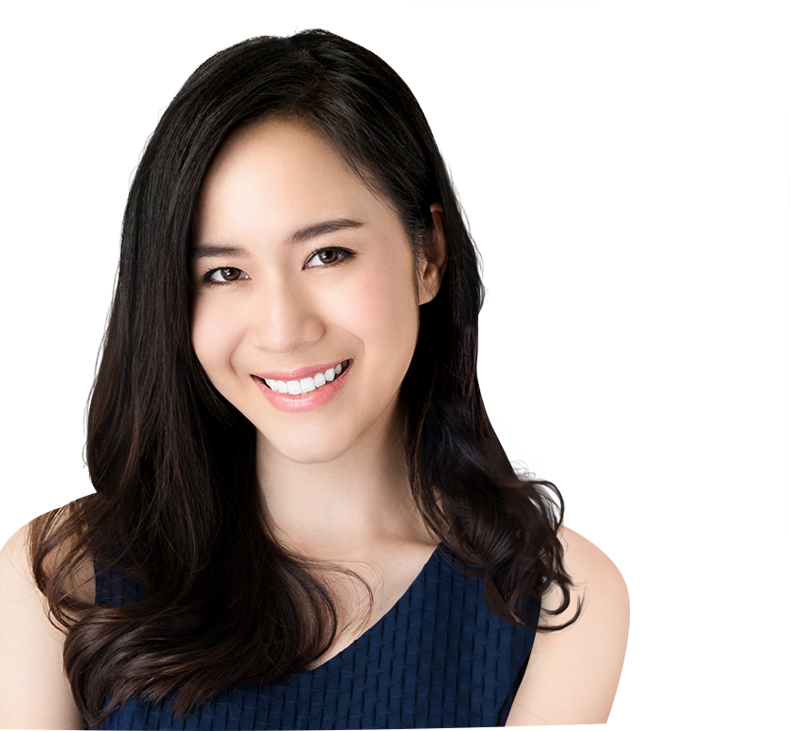
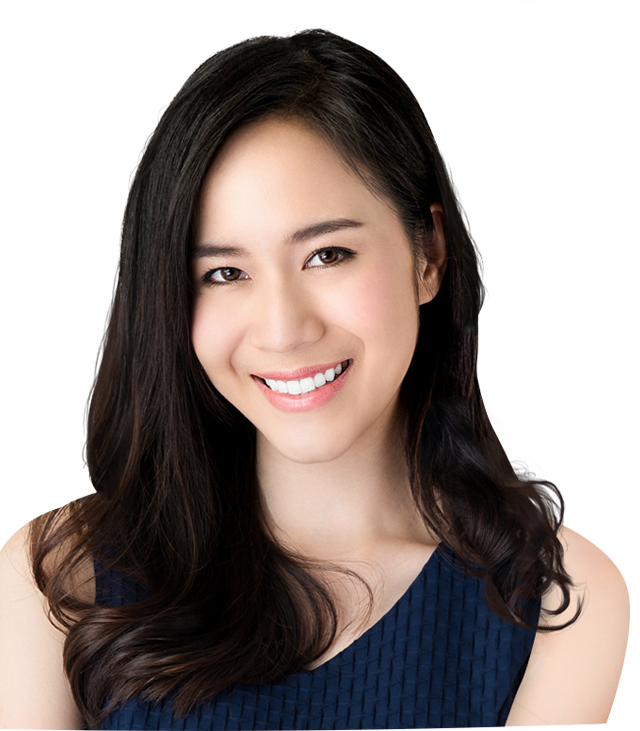
adaptive header block

diff --git a/src/style/partials/main/header.sass b/src/style/partials/main/header.sass
@@ -2,32 +2,120 @@
 	background-color: #e4f2f6
 	padding-top: 155px
 	padding-bottom: 118px
+	+r(1199)
+		padding-bottom: 77px
+		padding-top: 145px
+	+r(1023)
+		padding-top: 78px
+		padding-bottom: 40px
+	+r(767)
+		padding-bottom: 30px
+	+r(479)
+		padding-bottom: 25px
+		padding-top: 55px
 	&__wrap
 		display: flex
 		justify-content: space-between
 		position: relative
+		+r(1023)
+			flex-direction: column
+			justify-content: center
 		.girl
 			position: absolute
 			bottom: -121px
 			left: 381px
 			pointer-events: none
+			max-width: 100%
+			+r(1199)
+				width: 530px
+				left: 346px
+				bottom: -80px
+			+r(1023)
+				width: 459px
+				left: 36px
+				bottom: -40px
+			+r(767)
+				width: 448px
+				left: 20px
+				bottom: -40px
+			+r(639)
+				display: none
 	&__order
 		margin-top: -24px
+		+r(1199)
+			margin-top: 0
+		+r(1023)
+			margin-left: auto
+		+r(639)
+			margin: auto
 .info-list
 	position: relative
+	margin-right: auto
+	+r(1023)
+		margin-bottom: 100px
+	+r(639)
+		margin: auto
+		text-align: center
 	&__title
 		text-align: left
 		font-size: 77px
 		line-height: 0.78
 		color: #1e1e1e
 		margin-bottom: 24px
+		+r(1199)
+			font-size: 70px
+			line-height: 0.78
+			margin-bottom: 20px
+		+r(1023)
+			font-size: 65px
+			line-height: .85
+			margin-bottom: 15px
+			text-align: center
+			.hide
+				display: none
+		+r(767)
+			font-size: 56px
+			line-height: .85
+			margin-bottom: 10px
+		+r(639)
+			font-size: 50px
+		+r(479)
+			font-size: 36px
+			line-height: .8
 	&__desc
 		font-size: 28px
 		font-weight: 500
 		line-height: 1.21
 		color: #1e1e1e
 		margin-bottom: 48px
+		+r(1199)
+			font-size: 26px
+			margin-bottom: 40px
+		+r(1023)
+			font-size: 22px
+			line-height: 1.1
+			text-align: center
+			margin-bottom: 15px
+			br
+				display: none
+		+r(767)
+			font-size: 20px
+			margin-bottom: 10px
+		+r(639)
+			font-size: 18px
+			margin-bottom: 20px
 	&__plus
+		+r(1023)
+			display: flex
+			justify-content: space-between
+			align-items: flex-start
+		+r(639)
+			flex-direction: column
+			width: 360px
+			margin: auto
+			margin-bottom: 20px
+		+r(479)
+			width: 280px
 		.item
 			font-size: 20px
 			font-style: italic
@@ -35,8 +123,21 @@
 			color: #444444
 			padding-left: 60px
 			position: relative
+			+r(1023)
+				padding-left: 52px
+				font-size: 18px
+			+r(767)
+				padding-left: 33px
+			+r(639)
+				text-align: left
 			+nlt
 				margin-bottom: 33px
+				+r(1023)
+					margin-bottom: 0
+					margin-right: 7px
+				+r(639)
+					margin-right: 0
+					margin-bottom: 15px
 			.fico
 				box-shadow: -0.1px 1px 2px 0 rgba(0, 0, 0, 0.2)
 				color: #ffffff
@@ -52,11 +153,34 @@
 				display: flex
 				align-items: center
 				justify-content: center
+				+r(767)
+					width: 27px
+					height: 27px
+					font-size: 16px
 			&__ttl
 				font-weight: 700
 				display: block
 				color: #1464a5
+				+r(767)
+					display: inline
+				+r(479)
+					display: block
 	.product
 		position: absolute
 		bottom: -188px
 		left: 376px
+		max-width: 100%
+		+r(1199)
+			left: 334px
+			width: 360px
+		+r(1023)
+			left: 34px
+			width: 300px
+			bottom: -576px
+		+r(767)
+			left: 9px
+		+r(639)
+			position: static
+			margin-bottom: 90px
+		+r(479)
+			width: 300px

diff --git a/src/style/partials/menu.sass b/src/style/partials/menu.sass
@@ -2,9 +2,13 @@
 	position: fixed
 	top: 0
 	left: 0
-	right: 0
+	width: 100%
 	height: 100px
 	z-index: 10
+	+r(1199)
+		height: 80px
+	+r(479)
+		height: 55px
 	&--active
 		background: white
 	.container
@@ -14,6 +18,8 @@
 	align-items: center
 	position: relative
 	height: 100%
+	+r(479)
+		justify-content: center
 .nav
 	.menu-wrap
 		background-color: #f2f9fb
@@ -22,11 +28,17 @@
 		right: 0
 		height: 60px
 		display: none
+		+r(1023)
+			height: 50px
+		+r(479)
+			height: 40px
 		&--active
 			display: block
 		.container
 			display: flex
 			align-items: center
+			+r(479)
+				justify-content: center
 	&__menu
 		display: flex
 		.item
@@ -40,12 +52,21 @@
 				&:hover
 					border-bottom: 1px dotted transparentize(#2d2d2d, .3)
 .nav
+	.logo
+		+r(479)
+			width: 130px
 	.link
 		display: flex
 		margin-right: 49px
 		font-size: 0
 		line-height: 0
 		display: block
+		+r(1199)
+			margin-right: 35px
+		+r(1023)
+			margin-right: 13px
+		+r(479)
+			margin-right: 0
 	.menu
 		width: 44px
 		height: 44px
@@ -55,6 +76,10 @@
 		display: flex
 		align-items: center
 		justify-content: center
+		flex-shrink: 0
+		+r(479)
+			width: 31px
+			height: 31px
 		&__line
 			width: 31px
 			height: 3px
@@ -62,13 +87,20 @@
 			position: absolute
 			display: block
 			transition: transform 200ms
+			+r(479)
+				width: 21px
+				height: 2px
 			&--1
 				transform: translate3d(0,-9px,0)
+				+r(479)
+					transform: translate3d(0,-7px,0)
 			&--2
 				transition: all .3s
 				transform: translate3d(0,0,0)
 			&--3
 				transform: translate3d(0,9px,0)
+				+r(479)
+					transform: translate3d(0,7px,0)
 		&--active
 			background-color: #e1a400
 			.menu__line
@@ -84,9 +116,17 @@
 		display: flex
 		align-items: center
 		margin-right: 200px
+		+r(1199)
+			margin-right: 30px
+		+r(1023)
+			margin-right: 20px
+		+r(767)
+			display: none
 		.item
 			font-size: 17px
 			position: relative
+			+r(1023)
+				font-size: 16px
 			&:nth-child(1)
 				padding-left: 33px
 			&:nth-child(2)
@@ -95,6 +135,9 @@
 				padding-left: 30px
 			+nlt
 				margin-right: 50px
+				+r(1023)
+					margin-right: 20px
+				
 			.fico
 				transition: all .3s
 				color: #e0af0d
@@ -131,3 +174,15 @@
 .nav
 	&__btn
 		display: none
+		+r(1023)
+			font-size: 20px
+			padding: 12px 5px 18px 0
+			height: 46px
+		+r(767)
+			display: block
+			margin-left: auto
+		+r(479)
+			display: none
+			height: 36px
+			padding: 7px 5px 18px 0
+			font-size: 18px

diff --git a/src/template/main/header.html b/src/template/main/header.html
@@ -1,30 +1,33 @@
 <header class="header">
-  <!--=include ../menu.html -->
   <div class="container">
+    <!--=include ../menu.html -->
     <div class="header__wrap">
       <img src="img/girl.png" alt="girl" class="girl" />
       <div class="info-list">
         <h1 class="title info-list__title">
-          Первое&nbsp;<br />
-          полезное&nbsp;<br />
+          Первое&nbsp;<br class="hide" />
+          полезное <br />
           <span class="blue">отбеливание</span>
         </h1>
         <p class="info-list__desc">
-          2 в 1: отбеливание&nbsp;<br />и восстановление ваших зубов
+          2 в 1: отбеливание&ensp;<br />и&nbsp;восстановление ваших зубов
         </p>
         <ul class="info-list__plus">
           <li class="item">
             <i class="fico fico-check"></i>
-            <span class="item__ttl">Отбеливает</span> на молекулярном уровне
+            <span class="item__ttl">Отбеливает</span> на&nbsp;молекулярном
+            уровне
           </li>
           <li class="item">
             <i class="fico fico-check"></i>
-            <span class="item__ttl">Способствует</span> осстановлению эмали
+            <span class="item__ttl">Способствует</span> восстановлению эмали
           </li>
           <li class="item">
             <i class="fico fico-check"></i>
-            <span class="item__ttl"> Помогает укрепить зубы</span> и снизить
-            чувствительность
+            <span class="item__ttl item__ttl--last">
+              Помогает укрепить зубы</span
+            >
+            и снизить чувствительность
           </li>
         </ul>
         <img src="img/product.png" alt="product" class="product" />

diff --git a/src/template/menu.html b/src/template/menu.html
@@ -21,7 +21,7 @@
         </li>
         <li class="item">
           <i class="fico fico-icon-3"></i>
-          <a href="#" class="item__link"> Оплата и доставка</a>
+          <a href="#" class="item__link"> Оплата и&nbsp;доставка</a>
         </li>
       </ul>
       <div class="btn nav__btn js_none">Заказать</div>

diff --git a/src/index.html b/src/index.html
@@ -26,6 +26,6 @@
     <!--=include template/footer.html -->
     <script src="js/jquery-3.3.1.min.js"></script>
     <script src="js/main.js"></script>
-    <script src="js/everad.js"></script>
+    <!-- <script src="js/everad.js"></script> -->
   </body>
 </html>

diff --git a/src/style/partials/common.sass b/src/style/partials/common.sass
@@ -2,7 +2,7 @@ body
 	font-family: 'Roboto', Arial, Helvetica, sans-serif
 	font-size: 16px
 	background: white
-
+	overflow-x: hidden
 // Font icons
 .fico
 	display: inline-block
